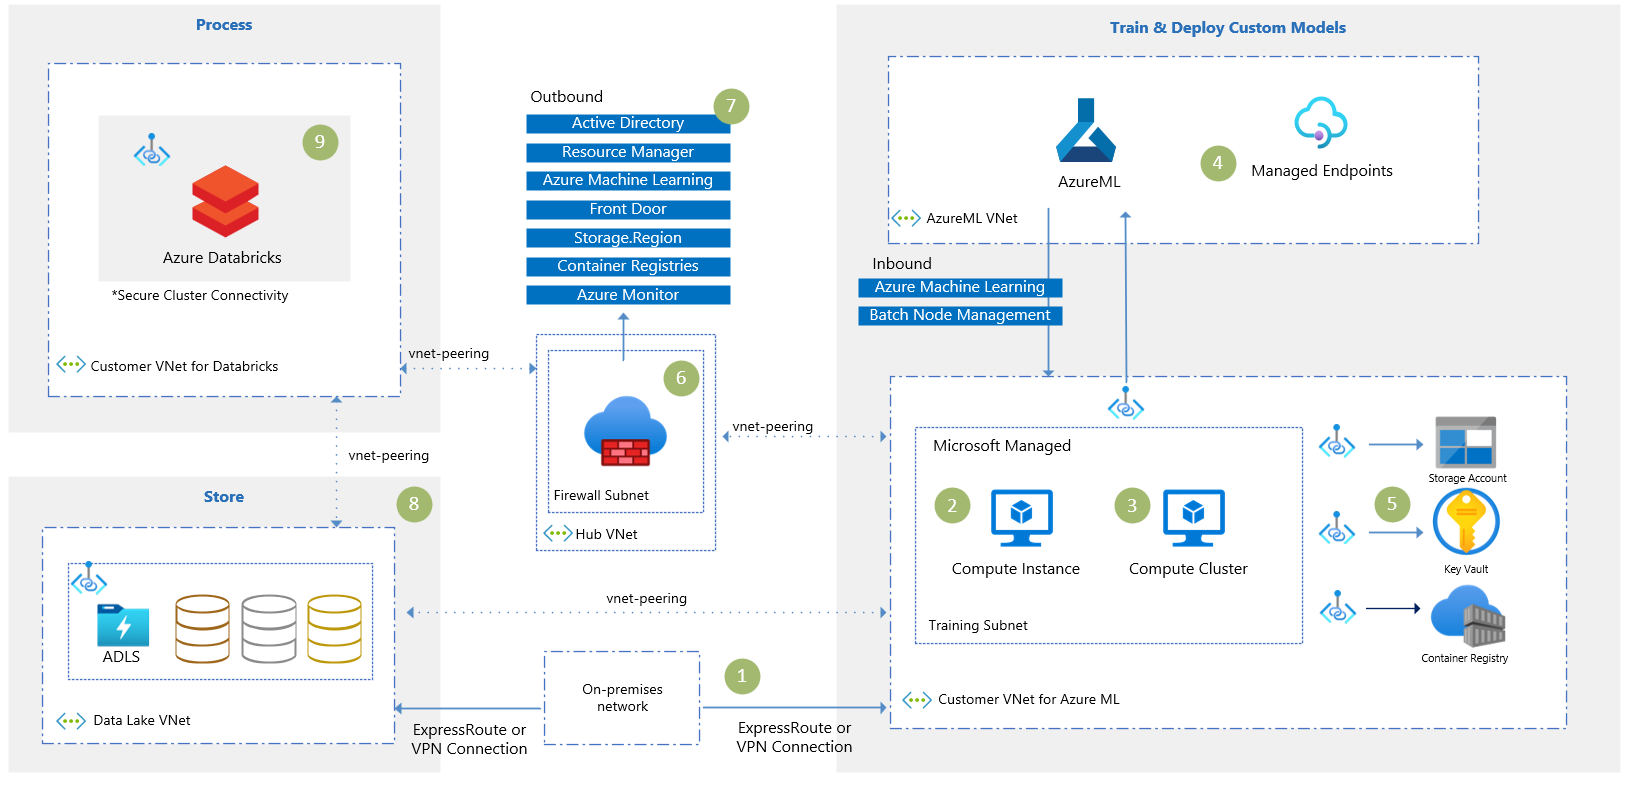
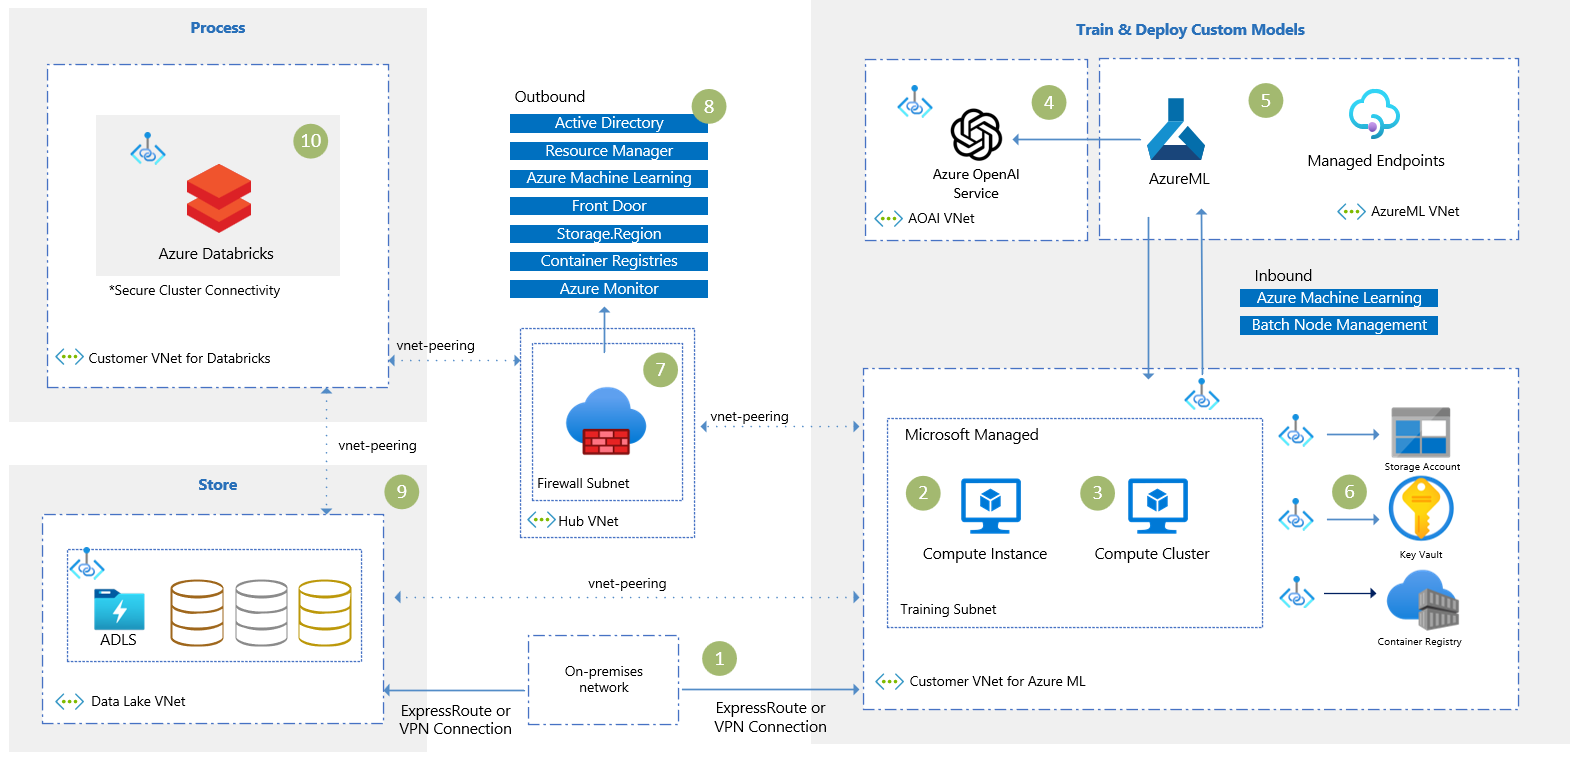
update

diff --git a/docs/solution-ideas/articles/secure-ml-architecture-fsi-content.md b/docs/solution-ideas/articles/secure-ml-architecture-fsi-content.md
@@ -41,7 +41,7 @@ This solution outlines a secure machine learning architecture aimed at Banks and
 
 * [Azure Databricks](https://learn.microsoft.com/azure/databricks/introduction/) is an Apache Spark-based analytics platform optimized for Azure, providing workspaces for data engineering and science tasks. You can attach Azure Databricks to your solution to enhance data transformation and preparation. You can also use [MLflow](https://www.mlflow.org/) for tracking experiments and registering Databricks models on AzureML model registry. A Databricks cluster with secure cluster connectivity enabled has no public IP addresses on its nodes.
 
-<!--TODO: AZURE OPENAI -->
+* [Azure OpenAI](https://learn.microsoft.com/en-us/azure/ai-services/openai/overview) is a service that offers access to advanced language models like GPT-4 and GPT-35-Turbo through REST API, Python SDK, or a web interface. The service supports various tasks, with Microsoft implementing safety measures against misuse. Azure OpenAI ensures a balance between advanced AI capabilities and Azure's security features, including private networking and regional availability.
 
 * [Azure Storage Account](https://learn.microsoft.com/azure/storage/common/storage-account-overview) is a secure, highly available, and massively scalable way to store data objects, including Data Lake Storage used to store your training datasets. It provides a unique namespace for your data accessible from anywhere in the world over HTTP or HTTPS. The data stored in the storage account is durable and protected, allowing you to access it with ease.
 
@@ -98,9 +98,9 @@ Instituições financeiras usualmente tem requisitos de segurança, compliance e
 
 * [MLOps](https://learn.microsoft.com/en-us/azure/machine-learning/concept-model-management-and-deployment). bla bla blabla bla blabla bla blabla bla blabla bla blabla bla blabla bla blabla bla blabla bla blabla bla blabla bla blabla bla blabla bla blabla bla blabla bla blabla bla blabla bla blabla bla blabla bla blabla bla blabla bla blabla bla blabla bla blabla bla blabla bla blabla bla blabla bla blabla bla blabla bla blabla bla blabla bla bla.
 
-### IA Responsável
+### Responsible AI
 
-* [Responsible AI](https://learn.microsoft.com/en-us/azure/machine-learning/concept-responsible-ai). bla bla blabla bla blabla bla blabla bla blabla bla blabla bla blabla bla blabla bla blabla bla blabla bla blabla bla blabla bla blabla bla blabla bla blabla bla blabla bla blabla bla blabla bla blabla bla blabla bla blabla bla blabla bla blabla bla blabla bla blabla bla blabla bla blabla bla blabla bla blabla bla blabla bla blabla bla bla.
+* [Responsible AI](https://learn.microsoft.com/en-us/azure/machine-learning/concept-responsible-ai). In the Financial Services Industry, it is imperative to implement AI in a responsible manner. As AI increasingly influences decision-making, it is crucial to ensure these decisions are made ethically and responsibly. The Azure Machine Learning [Responsible AI dashboard](https://learn.microsoft.com/en-us/azure/machine-learning/concept-responsible-ai-dashboard) provides a comprehensive framework for guaranteeing the responsible use of AI, enabling data scientists to develop configurations that meet stringent privacy laws and adhere to company policies.
 
 ## Potential use cases
 
